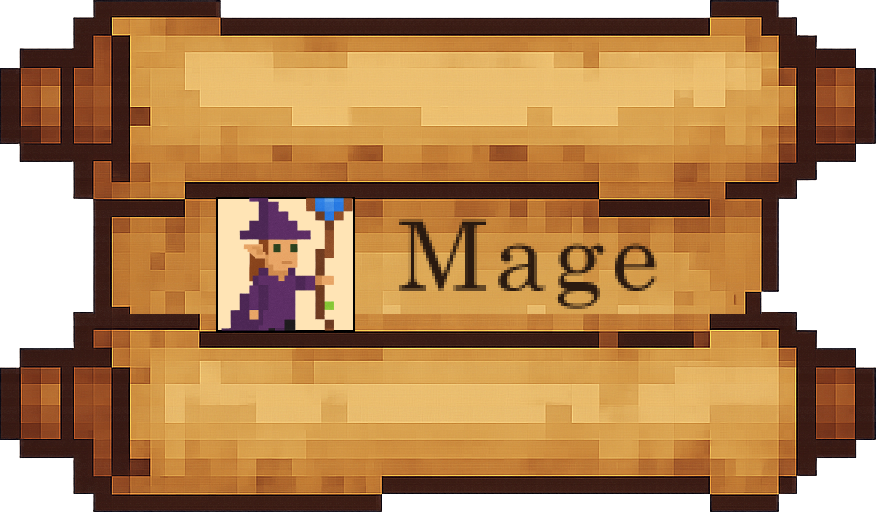
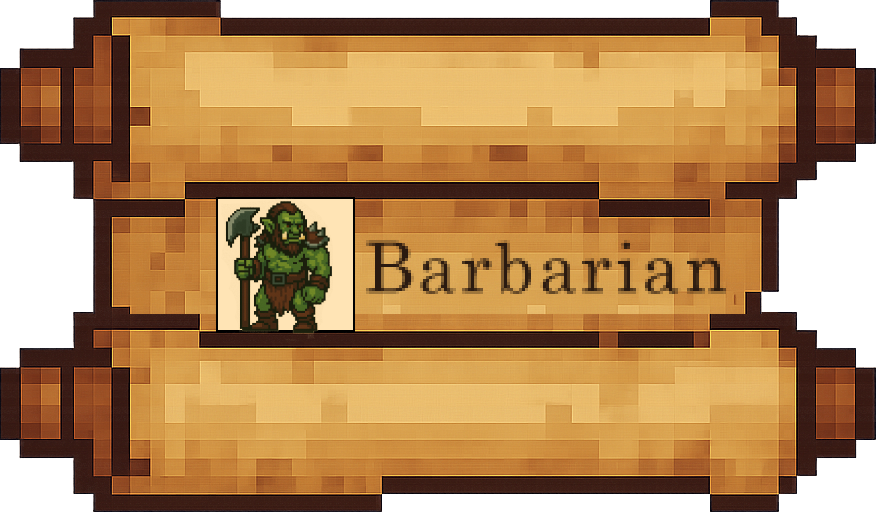
Fixed Character Select, assets on fight page, character on inventory widget

Changed region(s): [[0.2466, 0.375, 0.8322, 0.6562]]

diff --git a/mobile/lib/pages/boss_fight_page.dart b/mobile/lib/pages/boss_fight_page.dart
@@ -313,11 +313,20 @@ class _BossFightPageState extends State<BossFightPage> {
     return Scaffold(
       body: Stack(
         children: [
-          Container(color: Colors.grey[900]),
+          //Container(color: Colors.grey[900]), Background Color
+
+          // Background image
+          Positioned(
+            bottom: 200,
+            child: Image.asset(
+              'assets/img/backgrounds/fight_bg_2.png',
+              fit: BoxFit.cover,
+            ),
+          ),
 
           // Player
           Positioned(
-            bottom: 150,
+            bottom: 215,
             left: 30,
             child: AnimatedContainer(
               duration: const Duration(milliseconds: 300),
@@ -343,8 +352,8 @@ class _BossFightPageState extends State<BossFightPage> {
 
           // Boss
           Positioned(
-            bottom: 150,
-            right: 30,
+            bottom: 400,
+            right: 10,
             child: AnimatedContainer(
               duration: const Duration(milliseconds: 300),
               transform: Matrix4.translationValues(
@@ -395,9 +404,14 @@ class _BossFightPageState extends State<BossFightPage> {
                             color: Colors.red,
                             fontSize: 32,
                             fontWeight: FontWeight.bold)),
-                  Image.asset(
-                    'assets/img/boss/${questData["name"].toString().toLowerCase().split(" ").first}/pixel.png',
-                    height: 150,
+                  Transform(
+                    alignment: Alignment.center,
+                    transform: Matrix4.identity()..scale(-1.0, 1.0),
+                    child:
+                    Image.asset(
+                      'assets/img/boss/${questData["name"].toString().toLowerCase().split(" ").first}/pixel.png',
+                      height: 150,
+                    ),
                   ),
                 ],
               ),
@@ -418,6 +432,7 @@ class _BossFightPageState extends State<BossFightPage> {
             left: 0,
             right: 0,
             child: FightFooter(
+              isInventoryOpen: inventoryOpen, //to make footer dissapear when inventory is opened
               onClickInventory: () => setState(() => inventoryOpen = true),
               onClickAttack: () => handleAttack(),
               onClickTalk: () => handleTalk(),

diff --git a/mobile/lib/widgets/login_modal.dart b/mobile/lib/widgets/login_modal.dart
@@ -92,7 +92,7 @@ class _LoginModalState extends State<LoginModal> {
       );
 
       if (response.statusCode == 200) {
-        setState(() => "Reset link sent to your email!");
+        setState(() => error = "Reset link sent to your email!");
       } else {
         final data = jsonDecode(response.body);
         setState(() => error = data['error'] ?? "Failed to send reset link.");
@@ -157,7 +157,10 @@ class _LoginModalState extends State<LoginModal> {
                 Align(
                   alignment: Alignment.centerRight,
                   child: GestureDetector(
-                    onTap: () => setState(() => forgotPasswordMode = true),
+                    onTap: () => setState(() {
+                      forgotPasswordMode = true;
+                      error = ""; // Clear error when switching
+                    }),
                     child: const Text(
                       "Forgot password?",
                       style: TextStyle(color: Colors.blue),
@@ -179,7 +182,10 @@ class _LoginModalState extends State<LoginModal> {
                 ),
                 const SizedBox(height: 10),
                 GestureDetector(
-                  onTap: () => setState(() => forgotPasswordMode = false),
+                  onTap: () => setState(() {
+                    forgotPasswordMode = false;
+                    error = ""; // Clear error when switching back
+                  }),
                   child: const Text(
                     "Back to Login",
                     style: TextStyle(color: Colors.blue),

diff --git a/mobile/lib/widgets/fight_footer.dart b/mobile/lib/widgets/fight_footer.dart
@@ -6,6 +6,7 @@ class FightFooter extends StatelessWidget {
   final VoidCallback onClickInventory;
   final VoidCallback onClickRun;
   final Map<String, dynamic> userData;
+  final bool isInventoryOpen;
 
   const FightFooter({
     super.key,
@@ -14,10 +15,15 @@ class FightFooter extends StatelessWidget {
     required this.onClickInventory,
     required this.onClickRun,
     required this.userData,
+    required this.isInventoryOpen,
   });
 
   @override
   Widget build(BuildContext context) {
+    if (isInventoryOpen) {
+      return const SizedBox.shrink(); //hides fight footer when inventory opened
+    }
+
     final isMobile = MediaQuery.of(context).size.width < 768;
     final int hp = (userData["currentHP"] ?? 0);
     final int max = (userData["maxHP"] ?? 1);
@@ -25,8 +31,8 @@ class FightFooter extends StatelessWidget {
     return Container(
       padding: const EdgeInsets.all(12),
       decoration: BoxDecoration(
-        color: Colors.black.withOpacity(0.8),
-        border: const Border(top: BorderSide(color: Colors.grey, width: 2)),
+        color: const Color.fromARGB(255, 20, 1, 43).withOpacity(1),//0.8
+        border: const Border(top: BorderSide(color: Color.fromARGB(255, 20, 1, 43), width: 2)),
       ),
       child: isMobile ? _mobileLayout(hp, max) : _desktopLayout(hp, max),
     );

diff --git a/mobile/lib/pages/select_character.dart b/mobile/lib/pages/select_character.dart
@@ -263,7 +263,7 @@ class _ScrollCharacterModelState extends State<ScrollCharacterModel> {
     // Logic to determine what image to show
     final imageToShow = widget.isSelected
         ? frameImage
-        : (isHovered ? peekImage : closedImage);
+        : (isHovered ? peekImage : peekImage);//changed the else to be the peekImage as there is no hover on mobile
 
     return GestureDetector(
       onTap: widget.onClick,

diff --git a/mobile/lib/widgets/inventory_modal.dart b/mobile/lib/widgets/inventory_modal.dart
@@ -1115,7 +1115,7 @@ Widget _buildUsingItemPage(
       ),
       const SizedBox(height: 16),
       Image.asset(
-        'assets/img/playableCharacter/rogue/pixel.png',
+        'assets/img/playableCharacter/${userData!.character.characterClass.toLowerCase()}/pixel.png',
         fit: BoxFit.contain,
         height: 120,
       ),
